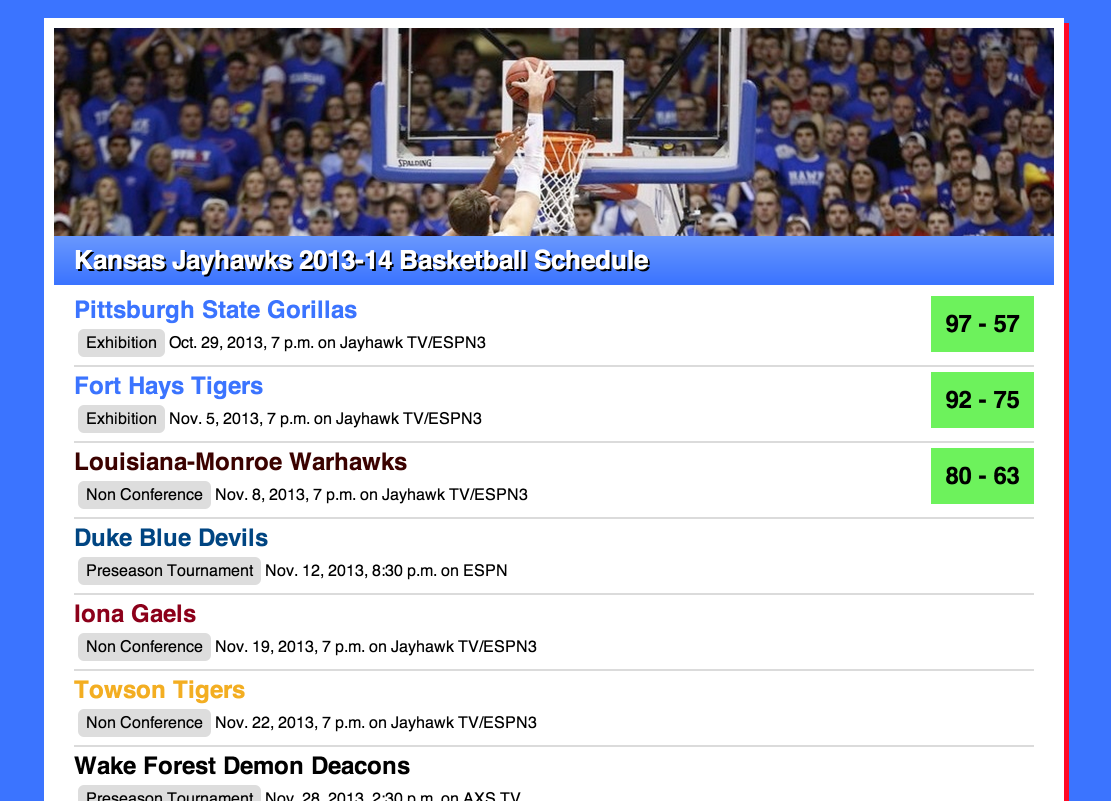
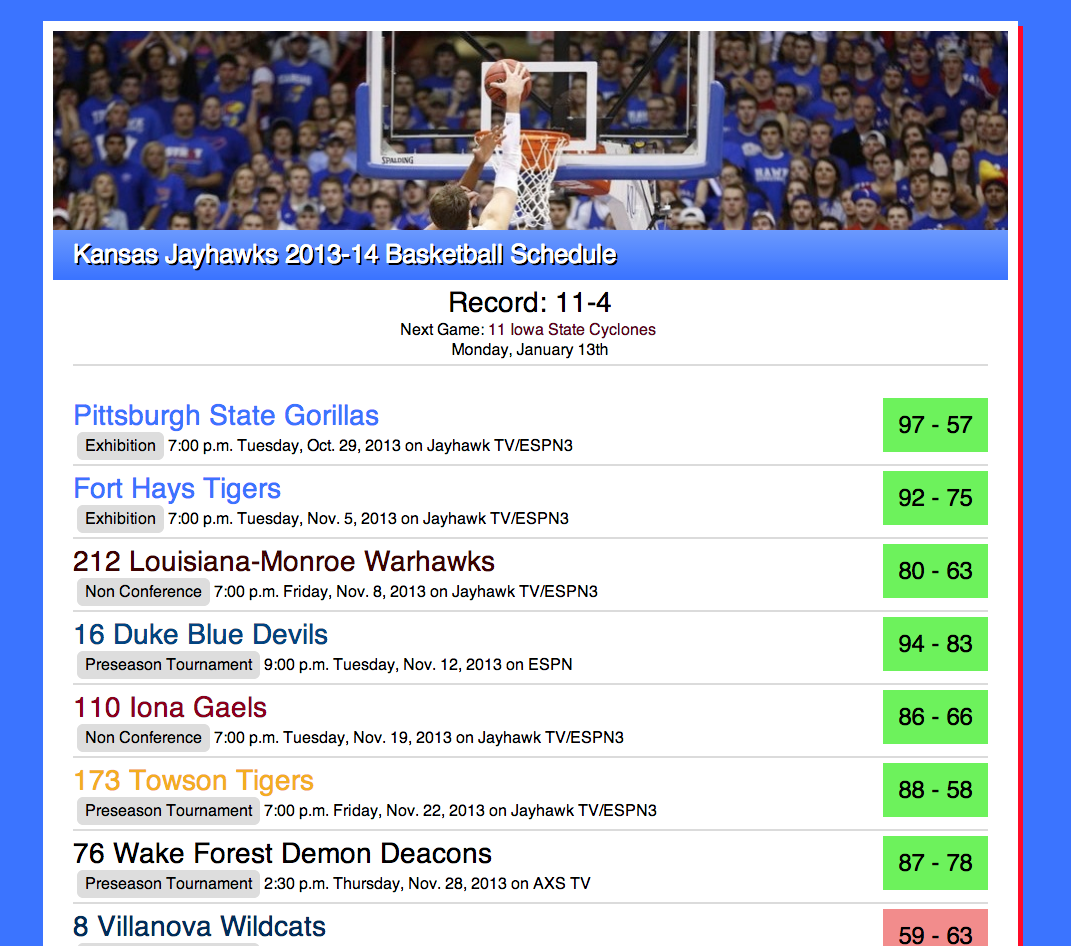
Updated README.md, revised screenshots, added conference record and time for next game

diff --git a/schedule/templates/schedule/index.html b/schedule/templates/schedule/index.html
@@ -4,11 +4,11 @@
 
 {% block content %}
     <div class="content-header main-header">
-        <h2>Record: {{record.wins}}-{{record.losses}}</h2>
+        <h2>Record: {{record.wins}}-{{record.losses}} ({{record.conference_wins}}-{{record.conference_losses}})</h2>
         {% if next_game != False %}
             <p>
                 Next Game: <a href="{{next_game.get_absolute_url}}">{{next_game.opponent.get_styled_name | safe}}</a>
-                <br />{{next_game.date|date:"l, F jS"}}
+                <br />{{next_game.date|date:"l, F jS g:i a"}}
             </p>
         {% endif %}
     </div>

diff --git a/schedule/views.py b/schedule/views.py
@@ -18,12 +18,19 @@ def index(request):
     record = {}
     record['wins'] = 0
     record['losses'] = 0
+    record['conference_wins'] = 0
+    record['conference_losses'] = 0
+
 
     for game in games:
         if game.get_result() == 'win' and game.game_type != 'Exhibition':
             record['wins'] += 1
+            if game.game_type == 'Conference':
+                record['conference_wins'] += 1
         if game.get_result() == 'loss' and game.game_type != 'Exhibition':
             record['losses'] += 1
+            if game.game_type == 'Conference':
+                record['conference_losses'] += 1
 
     return render(request, 'schedule/index.html', {'games': games, 'record': record, 'next_game': next_game})
 

diff --git a/README.md b/README.md
@@ -1,19 +1,25 @@
 #Jayhawk Schedule
 
-This is a simple django app built to track the __Kansas Jayhawks 2013-14__ basketball schedule.  The __Kansas Jayhawks 2013-14 Basketball Schedule__ provides all the latest news, videos, tweets and results for the Jayhawks season. You can view the project live at [http://jayhawkschedule.co](http://jayhawkschedule.co).
+This is a simple django app built to track the __Kansas Jayhawks 2013-14__ basketball schedule.  The __Kansas Jayhawks 2013-14 Basketball Schedule__ provides all the latest news, videos, tweets, stats and results of the Jayhawks season. You can view the project live at [http://jayhawkschedule.co](http://jayhawkschedule.co).
 
 Main Features:
 
-- gives admin ability to create games, set opponent, location, tv info
 - utilizes the [ESPN API](http://developer.espn.com/docs) for video, team news, stats, and details
-- utilizes the [Twitter API](https://dev.twitter.com/docs/api/1.1/get/search/tweets) to display latest tweets about each team.
-- generates a ical calendar feed
+- utilizes the [Twitter API](https://dev.twitter.com/docs/api/1.1/get/search/tweets) to display latest tweets about each team
+- [Kenpom](http://kenpom.com) stats included for team ranking, offensive & defensive efficiency
+- fully responsive design built with Compass & Sass
+- generates an up to date ical calendar feed including results, location and tune in information
+- gives admin ability to create games, set opponent, location, tv info
 - update results as games occur
 
 ## Jayhawk Schedule Homepage
 ![Jayhawk Schedule Homepage](https://raw.github.com/jesseoverright/django-jayhawk-schedule/master/jayhawkschedule/static/images/home-page.png)
-The homepage displays the full list of games, including results, upcoming games, location, television info and more at a glance.
+The homepage displays the full list of games, including results, location, television info and more at a glance.
+
+## Game Pages
+![Jayhawk Schedule Game Page](https://raw.github.com/jesseoverright/django-jayhawk-schedule/master/jayhawkschedule/static/images/game-page.png)
+Game pages provide a snapshot of the upcoming opponent and provides matchup details with Kansas, including head-to-head comparisons of offensive and defensive efficiency from Kenpom. They take further advantage of the ESPN API to include ESPN video, ESPN Game page links, latest ESPN articles, and Game colors. Game pages also uses the Twitter API for the latest tweets.
 
 ## Team Pages
 ![Jayhawk Schedule Team Page](https://raw.github.com/jesseoverright/django-jayhawk-schedule/master/jayhawkschedule/static/images/team-page.png)
-Team pages take further advantage of the ESPN API to include ESPN video, ESPN Team page links, latest ESPN articles, and team colors. Also uses the Twitter API for the latest tweets.
+Team pages are available for every KU opponent. They provide game details for upcoming games vs KU, team stats, ESPN video, links, articles and twitter timelines specific to individual teams.
